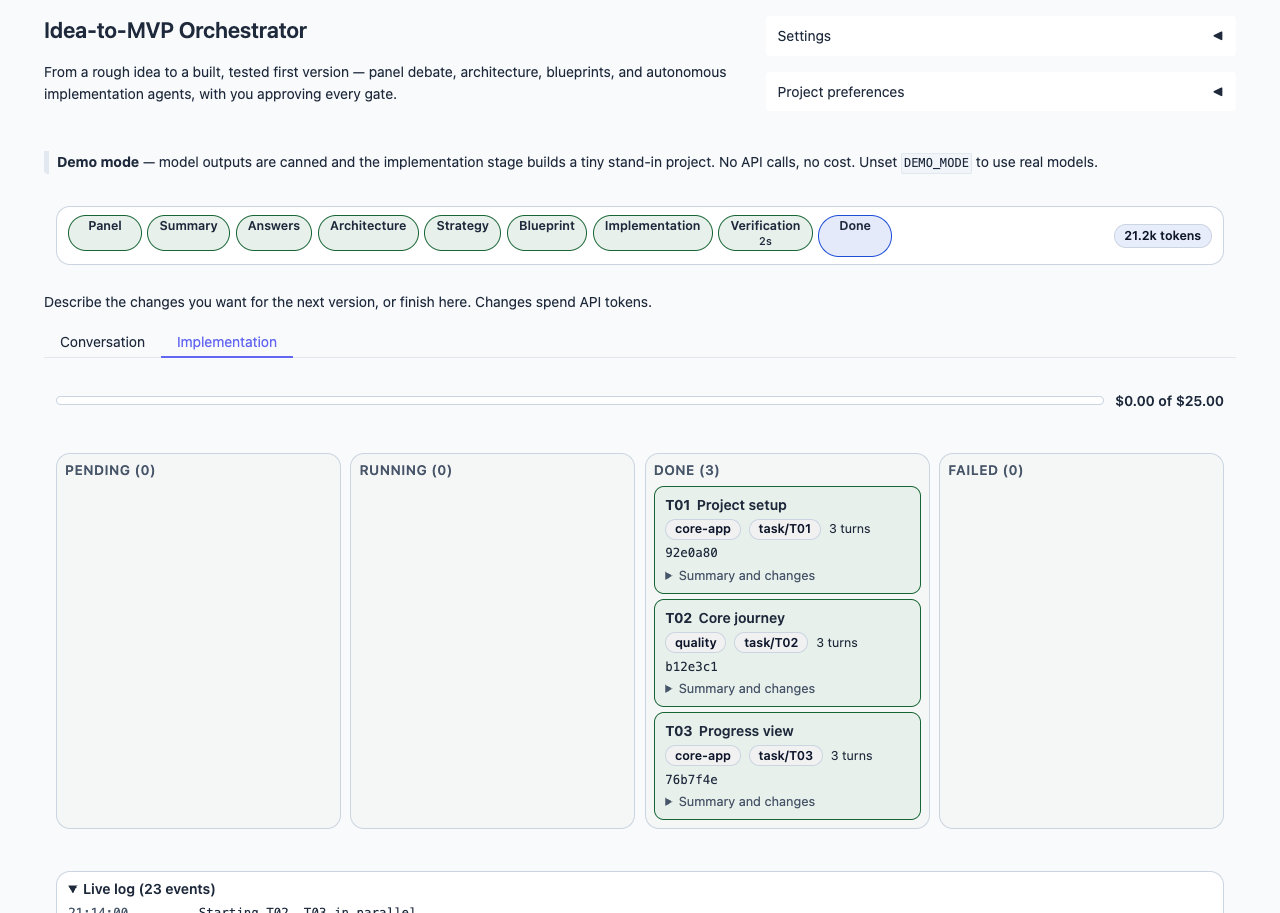
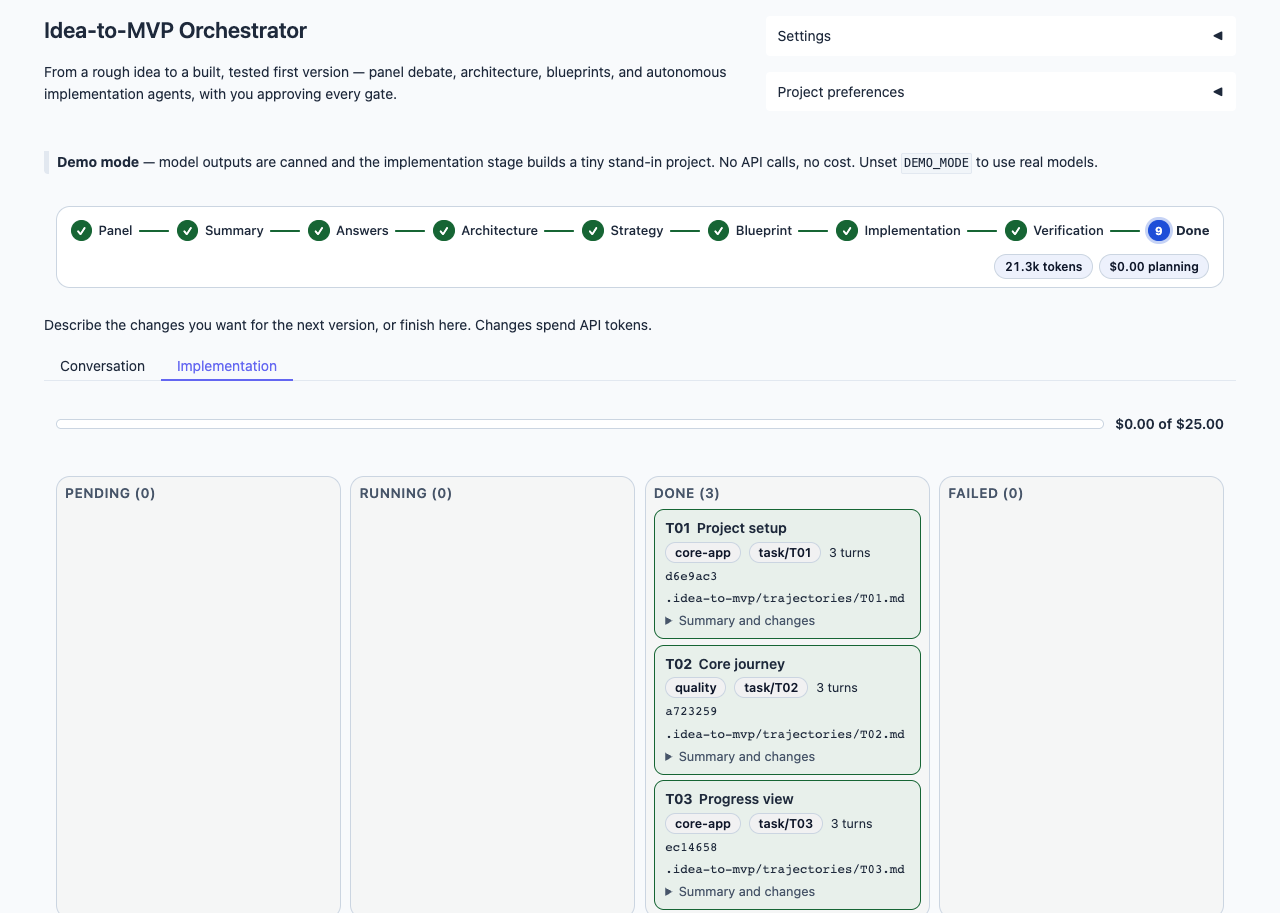
feat: release version 0.4.0 with enhanced orchestrator checks and UI improvements
- Released version 0.4.0, introducing a self-checking orchestrator that validates test reports and integrates an experience library for project learning.
- Updated `CHANGELOG.md` to reflect new features, including improved agent sessions, model pricing, and cost estimation adjustments.
- Enhanced UI components to restore styling for cards, forms, and dashboards, ensuring a consistent user experience.
- Revised `README.md` to highlight the new verdict system and its implications for agent sessions.
- Updated version in `pyproject.toml` and `uv.lock` to 0.4.0, ensuring consistency across project files.
- Added tests to verify the integrity of the new UI styles and versioning.

diff --git a/src/idea_to_mvp/ui/theme.py b/src/idea_to_mvp/ui/theme.py
@@ -108,6 +108,147 @@ CSS = """
   font-variant-numeric: tabular-nums; color: var(--text); border: 1px solid var(--card-border);
   background: color-mix(in srgb, var(--accent) 8%, var(--card-bg));
 }
+/* Chat cards. A speaker class sets the accent; the card border, tint and title follow it. */
+.speaker-card {
+  border: 1px solid var(--card-accent); border-radius: var(--radius); padding: 0.75rem 0.9rem; margin: 0.25rem 0;
+  background: color-mix(in srgb, var(--card-accent) 10%, var(--card-bg)); color: var(--text);
+}
+.speaker-card summary { cursor: pointer; }
+.speaker-card.thinking { border-style: dashed; }
+.speaker-card.summary { --card-accent: var(--accent-summary); }
+.speaker-card.speaker-pm { --card-accent: var(--accent-pm); }
+.speaker-card.speaker-tech-lead { --card-accent: var(--accent-tech); }
+.speaker-card.speaker-skeptic { --card-accent: var(--accent-skeptic); }
+.speaker-card.speaker-summary { --card-accent: var(--accent-summary); }
+.speaker-card.speaker-questions { --card-accent: var(--accent-questions); }
+.speaker-card.speaker-architect { --card-accent: var(--accent-architect); }
+.speaker-card.speaker-planner { --card-accent: var(--accent-planner); }
+.speaker-card.speaker-research { --card-accent: var(--accent-planner); }
+.speaker-card.warning-card { --card-accent: var(--danger); }
+.speaker-card.live-turn { border-style: dashed; }
+.speaker-card.live-turn .speaker-body::after { content: "▍"; color: var(--card-accent); animation: blink 1s steps(2) infinite; }
+@keyframes blink { 50% { opacity: 0; } }
+.opening-row { display: grid; grid-template-columns: repeat(3, minmax(0, 1fr)); gap: 0.5rem; }
+.opening-row .speaker-card { margin: 0; }
+.moderator-banner {
+  border-left: 4px solid var(--accent); border-radius: 8px; padding: 0.35rem 0.75rem; margin: 0.25rem 0;
+  background: color-mix(in srgb, var(--accent) 8%, var(--card-bg)); color: var(--text-muted); font-size: 0.9rem;
+}
+.speaker-head { color: var(--card-accent); font-weight: 700; margin-bottom: 0.45rem; }
+.speaker-body { color: var(--text); line-height: 1.35; white-space: normal; }
+.speaker-body p { margin: 0.1rem 0 0.3rem 0; }
+.speaker-body p:last-child { margin-bottom: 0; }
+.speaker-body ul, .speaker-body ol { margin: 0.2rem 0 0.3rem 1.2rem; padding-left: 0.2rem; }
+.speaker-body li { margin: 0.04rem 0; }
+.speaker-body h1, .speaker-body h2, .speaker-body h3, .speaker-body h4 { margin: 0.15rem 0 0.25rem 0; line-height: 1.25; }
+.speaker-body code { background: color-mix(in srgb, var(--text) 10%, transparent); padding: 0.08rem 0.3rem; border-radius: 5px; }
+
+/* Gate forms: the architecture comparison, the implement summary, banners. */
+.gate-form { gap: 0.6rem; }
+.arch-grid { display: grid; grid-template-columns: repeat(auto-fit, minmax(260px, 1fr)); gap: 0.75rem; }
+.arch-card {
+  --card-accent: var(--accent-architect);
+  border: 1px solid var(--card-accent); border-radius: var(--radius); padding: 0.75rem 0.9rem; color: var(--text);
+  background: color-mix(in srgb, var(--card-accent) 8%, var(--card-bg));
+}
+.arch-card.recommended { --card-accent: var(--ok); border-width: 2px; }
+.arch-card h4 { margin: 0 0 0.3rem 0; color: var(--card-accent); }
+.arch-card ul { margin: 0.1rem 0 0.4rem 1.1rem; padding: 0; }
+.arch-card p { margin: 0.2rem 0; }
+.arch-style { color: var(--text-muted); }
+.arch-why { margin: 0.4rem 0 0 0; color: var(--text); }
+.chips { display: flex; flex-wrap: wrap; gap: 0.3rem; margin: 0.3rem 0; }
+.chip {
+  padding: 0.05rem 0.55rem; border-radius: 999px; font-size: 0.78rem; font-weight: 600; color: var(--text);
+  border: 1px solid var(--card-border); background: color-mix(in srgb, var(--text) 6%, var(--card-bg));
+}
+.badge-recommended {
+  margin-left: 0.4rem; padding: 0.05rem 0.5rem; border-radius: 999px; font-size: 0.72rem; font-weight: 700;
+  color: var(--ok); border: 1px solid var(--ok); background: color-mix(in srgb, var(--ok) 12%, var(--card-bg));
+}
+.gate-table { width: 100%; border-collapse: collapse; color: var(--text); }
+.gate-table th, .gate-table td { padding: 0.3rem 0.6rem; text-align: left; border-bottom: 1px solid var(--card-border); }
+.gate-table th { width: 11rem; color: var(--text-muted); font-weight: 600; }
+.gate-banner {
+  padding: 0.6rem 0.8rem; border-radius: var(--radius); color: var(--text);
+  border: 1px solid var(--danger); background: color-mix(in srgb, var(--danger) 10%, var(--card-bg));
+}
+.gate-banner.warn { border-color: var(--warn); background: color-mix(in srgb, var(--warn) 10%, var(--card-bg)); }
+.gate-banner ul { margin: 0.2rem 0 0 1.1rem; padding: 0; }
+
+/* Implementation view: cost meter, task board, live console. */
+.cost-meter { display: flex; align-items: center; gap: 0.7rem; margin: 0.2rem 0 0.6rem 0; color: var(--text); }
+.cost-bar { flex: 1; height: 0.6rem; border-radius: 999px; overflow: hidden; border: 1px solid var(--card-border); background: var(--card-bg); }
+.cost-fill { height: 100%; background: var(--ok); }
+.cost-meter.warn .cost-fill { background: var(--warn); }
+.cost-meter.over .cost-fill { background: var(--danger); }
+.cost-meter.over .cost-text { color: var(--danger); font-weight: 700; }
+.cost-text { font-weight: 600; white-space: nowrap; }
+.task-board { display: grid; grid-template-columns: repeat(auto-fit, minmax(220px, 1fr)); gap: 0.6rem; margin: 0.4rem 0; }
+.board-col {
+  padding: 0.5rem; border-radius: var(--radius); border: 1px solid var(--card-border);
+  background: color-mix(in srgb, var(--text) 4%, var(--card-bg)); color: var(--text);
+}
+.board-col h4 { margin: 0 0 0.4rem 0; color: var(--text-muted); font-size: 0.85rem; text-transform: uppercase; letter-spacing: 0.04em; }
+.task-card {
+  --card-accent: var(--card-border);
+  margin: 0.35rem 0; padding: 0.5rem 0.65rem; border-radius: 10px; border: 1px solid var(--card-accent); color: var(--text);
+  background: color-mix(in srgb, var(--card-accent) 10%, var(--card-bg));
+}
+.task-card.running { --card-accent: var(--accent); }
+.task-card.done { --card-accent: var(--ok); }
+.task-card.failed { --card-accent: var(--danger); }
+.task-card header { display: flex; gap: 0.4rem; align-items: baseline; flex-wrap: wrap; }
+.task-title { font-weight: 600; }
+.task-meta { display: flex; flex-wrap: wrap; gap: 0.3rem 0.5rem; align-items: center; margin-top: 0.25rem; font-size: 0.78rem; color: var(--text-muted); }
+.task-card details { margin-top: 0.3rem; }
+.task-card summary { cursor: pointer; color: var(--text-muted); font-size: 0.8rem; }
+.task-summary { margin: 0.3rem 0; font-size: 0.85rem; }
+.diffstat, .run-block {
+  margin: 0.3rem 0; padding: 0.4rem 0.5rem; overflow-x: auto; font-size: 0.78rem; border-radius: 8px;
+  color: var(--text); background: color-mix(in srgb, var(--text) 8%, var(--card-bg));
+}
+.badge {
+  padding: 0.05rem 0.5rem; border-radius: 999px; font-size: 0.72rem; font-weight: 700; border: 1px solid var(--text-muted); color: var(--text-muted);
+}
+.badge.passed { color: var(--ok); border-color: var(--ok); background: color-mix(in srgb, var(--ok) 12%, var(--card-bg)); }
+.badge.failed { color: var(--danger); border-color: var(--danger); background: color-mix(in srgb, var(--danger) 12%, var(--card-bg)); }
+.board-empty, .dashboard-note { color: var(--text-muted); }
+.console { margin: 0.4rem 0; border: 1px solid var(--card-border); border-radius: var(--radius); background: var(--card-bg); color: var(--text); }
+.console summary { cursor: pointer; padding: 0.4rem 0.7rem; font-weight: 600; }
+/* column-reverse anchors the scroll position to the bottom: the newest line stays in view as lines arrive. */
+.console-scroll { display: flex; flex-direction: column-reverse; max-height: 18rem; overflow-y: auto; padding: 0 0.7rem 0.5rem 0.7rem; }
+.console-line { display: flex; gap: 0.6rem; font-family: ui-monospace, SFMono-Regular, Menlo, monospace; font-size: 0.78rem; line-height: 1.5; }
+.console-line .ts { color: var(--text-muted); }
+.console-line .who { min-width: 3.2rem; font-weight: 700; color: var(--accent); }
+.console-line .label { font-weight: 700; }
+.console-line.task_end .what { font-weight: 700; }
+.console-line.cost .what { color: var(--text-muted); }
+
+/* Delivery dashboard. */
+.dashboard { color: var(--text); }
+.dashboard-head { display: flex; flex-wrap: wrap; align-items: baseline; gap: 0.4rem 1rem; padding-right: 5rem; }  /* clear of the chat bubble's icons */
+.dashboard-head h3 { margin: 0; }
+.dashboard-verdict { padding: 0.15rem 0.7rem; border-radius: 999px; font-weight: 700; border: 1px solid var(--text-muted); }
+.dashboard-verdict.passed { color: var(--ok); border-color: var(--ok); background: color-mix(in srgb, var(--ok) 12%, var(--card-bg)); }
+.dashboard-verdict.failed { color: var(--danger); border-color: var(--danger); background: color-mix(in srgb, var(--danger) 12%, var(--card-bg)); }
+.lane-grid { display: grid; grid-template-columns: repeat(auto-fit, minmax(230px, 1fr)); gap: 0.6rem; margin: 0.6rem 0; }
+.lane-card {
+  --card-accent: var(--ok);
+  padding: 0.6rem 0.8rem; border-radius: var(--radius); border: 1px solid var(--card-accent);
+  background: color-mix(in srgb, var(--card-accent) 8%, var(--card-bg));
+}
+.lane-card.failed { --card-accent: var(--danger); }
+.lane-card header { display: flex; justify-content: space-between; align-items: center; gap: 0.4rem; }
+.lane-card p { margin: 0.3rem 0; }
+.lane-label { color: var(--text-muted); font-size: 0.78rem; font-weight: 700; text-transform: uppercase; }
+.lane-card ul, .lane-card ol { margin: 0.1rem 0 0.3rem 1.1rem; padding: 0; font-size: 0.85rem; }
+.lane-card ol li { margin-bottom: 0.4rem; }
+.lane-card code { overflow-wrap: anywhere; }  /* long paths (the acceptance suite's folder) wrap inside the card */
+.req-table { width: 100%; border-collapse: collapse; margin: 0.3rem 0 0.6rem 0; color: var(--text); }
+.req-table th, .req-table td { padding: 0.25rem 0.5rem; text-align: left; border-bottom: 1px solid var(--card-border); }
+.req-row.delivered td.req-status { color: var(--ok); font-weight: 600; }
+.req-row.uncovered td.req-status, .req-row.untested td.req-status, .req-row.incomplete td.req-status { color: var(--danger); font-weight: 600; }
 .req-row td.req-acceptance.passed { color: var(--ok); font-weight: 600; }
 .req-row td.req-acceptance.failed { color: var(--danger); font-weight: 600; }
 .req-row td.req-acceptance.skipped, .req-row td.req-acceptance.no-test { color: var(--text-muted); font-weight: 400; }

diff --git a/tests/test_ui_render.py b/tests/test_ui_render.py
@@ -278,3 +278,17 @@ def test_the_stepper_is_sticky_and_the_chat_gets_no_fixed_pixel_height() -> None
 
 def test_dark_mode_is_keyed_on_gradios_dark_class() -> None:
     assert any(".dark" in selector for selector, _ in rules(CSS))
+
+
+# The classes whose rules a cleanup of the stylesheet once dropped (cards, gate forms, task board, console,
+# dashboard): without them those parts render as unstyled text.
+_STRUCTURAL_CLASSES = (
+    "speaker-card", "speaker-head", "speaker-body", "opening-row", "arch-card", "arch-grid", "gate-table",
+    "gate-banner", "cost-meter", "task-board", "board-col", "task-card", "badge", "console", "console-line",
+    "dashboard", "dashboard-head", "dashboard-verdict", "lane-grid", "lane-card", "req-table", "diffstat",
+)  # fmt: skip
+
+
+@pytest.mark.parametrize("name", _STRUCTURAL_CLASSES)
+def test_the_stylesheet_styles_the_structural_classes_of_the_html_renderers(name: str) -> None:
+    assert re.search(rf"\.{re.escape(name)}\b[^{{]*{{", CSS), name

diff --git a/tests/test_docs_sync.py b/tests/test_docs_sync.py
@@ -174,7 +174,7 @@ def test_the_version_is_released_and_matches_the_changelog() -> None:
     version = tomllib.loads((ROOT / "pyproject.toml").read_text(encoding="utf-8"))["project"][
         "version"
     ]
-    assert version == "0.3.0"
+    assert version == "0.4.0"
     headings = re.findall(
         r"^## \[([^\]]+)\]", (ROOT / "CHANGELOG.md").read_text(encoding="utf-8"), re.MULTILINE
     )

diff --git a/CHANGELOG.md b/CHANGELOG.md
@@ -2,9 +2,23 @@
 
 All notable changes to this project will be documented in this file.
 
-## Unreleased
+## [0.4.0] - 2026-10-21
+
+The verdict is now evidence the orchestrator checks itself (parsed test reports, a test-integrity guard, held-out acceptance tests, a fix loop that reads its own earlier attempts), the pipeline learns (an agent harness in every pack, optional tuning on a pilot task, an experience library per stack), and it runs without the UI (`run`, `resume`, `sessions`, `publish`, `bench`, `mcp`). Models are priced from a catalog, and every kind of agent session has its own model. The first live benchmark is under `docs/benchmarks/2026-10-21-22ccfe6/`.
+
+### Upgrade notes
+
+- **New defaults that change a run.** `TEST_INTEGRITY=block`: weakening a test (deleting it, adding `skip` / `xfail` / `.only`, removing assertions) fails the verdict until the fix session restores it or justifies it in `quality/TEST_CHANGES.md`; `warn` reports only, `off` disables it. `ACCEPTANCE_TESTS=on` outside demo mode: one extra planning call per version (the acceptance author, on the architect's model) and a fourth verification lane; the suites are kept in `OUTPUT_DIR/acceptance/`, outside the project. The tests lane now trusts the test report, not the agent's claim, so a plan without `commands.test_report` is marked "agent-reported". `EXPERIENCE_LIBRARY` is on outside demo mode (a few cents per delivery for the reflection); `HARNESS_TUNING` stays `off`.
+- **Agent sessions load the project's harness.** Task, fix, and merge-resolver sessions read the generated `CLAUDE.md` and `.claude/skills/` (Claude Code's *project* setting source), where 0.3 loaded nothing from the workspace. The orchestrator restores a fixed `.claude/settings.json` before each session and the guard refuses writes to `.claude/settings*.json` and `.mcp.json`. See `SECURITY.md`.
+- **Models.** `IMPLEMENTER_MODEL` now drives task sessions only; `VERIFIER_MODEL` and `ESCALATION_MODEL` are new. An `.env` copied from 0.3 that pins `IMPLEMENTER_MODEL`, `PM_MODEL`, `MODERATOR_MODEL`, `ARCHITECT_MODEL`, or any other `*_MODEL` / `*_PROVIDER` keeps the pinned model: remove those lines to get the new defaults. `idea-to-mvp doctor` warns about pinned models the catalog does not know.
+- **Cost.** `balanced` plans on Opus 5.5, and planning documents are no longer cut short, so planning is most of a run's cost: the measured benchmark run cost $8.06 against the catalog's $3.43 estimate (`fast`: $0.25). Set `IMPLEMENTER_MAX_TOTAL_USD` before a real run; it caps agent sessions, not planning.
+- **Agent sessions start only on an explicit yes**: `--implement` on the command line, `confirm_spend: true` over MCP, the implement gate in the UI.
+- **Optional extra.** `idea-to-mvp mcp` needs `pip install idea-to-mvp[mcp]`.
+- **Files in a project.** Agent trajectories and the run ledger are written to `.idea-to-mvp/` in the project and stay out of the delivery zip. A fix attempt leaves `.idea-to-mvp/fix/attempt-<n>/`.
+- The tree is formatted with `ruff format` (line length 100) in a commit of its own; `git blame` can skip it with `--ignore-rev`.
 
 ### UI
+- **Fixed: the cards, forms, board, and dashboard rendered unstyled.** The stepper change of this release dropped the stylesheet rules of the chat cards, gate forms, task board, console, and delivery dashboard; they are restored, and a test names the structural classes that must keep a rule.
 - **A cleaner stage stepper.** The steps above the chat now have one height and one style: each is numbered, a finished step shows a check mark, a failed one a cross, and the current one a filled, ringed marker with its name in bold; connector lines join the steps and fill the row. Before, Gradio's list styles gave every step but the last a bottom margin (so "Done" was taller), and a step with a time grew a second line. The running or failed step shows its time inline, a finished one in its tooltip. The token and cost badges stay beside the steps when there is room and move to a row of their own otherwise; on a phone the steps are one row you swipe sideways and the badges wrap.
 
 ### Models

diff --git a/docs/plans/2026-10-19-v0.4.0-plan.md b/docs/plans/2026-10-19-v0.4.0-plan.md
@@ -6,7 +6,7 @@ Theme of the release: v0.3 made the pipeline durable, parallel, and sandboxed. v
 
 ## Status
 
-Done: **21 / 22**. Update this table (and only this table) when a task is finished.
+Done: **22 / 22**. Update this table (and only this table) when a task is finished.
 
 *Model* is the recommended model for the session that implements the task (pick it in the app's model picker before typing "implement task N"): Opus 5.5 where the task needs design judgment, security reasoning, or graph-level changes; Sonnet 5.5 where the design is already settled and the work is careful execution. If a Sonnet session fails twice on the same problem or starts redesigning the task, stop and rerun the task on Opus. After tasks 9, 10, 12, and 18 (they change what agents may do), run `/code-review`.
 
@@ -33,7 +33,7 @@ Done: **21 / 22**. Update this table (and only this table) when a task is finish
 | 19 | MCP server | 6 | Sonnet 5.5 | done (2026-10-21) |
 | 20 | Packaging and release engineering | 1 | Sonnet 5.5 | done (2026-10-21) |
 | 21 | Showcase: examples, recording, comparison (**starts with the live bench run: ask the user for their provider balances**) | 17, 20 | Sonnet 5.5 | done (2026-10-21) |
-| 22 | Release 0.4.0 | all | Sonnet 5.5 | todo |
+| 22 | Release 0.4.0 | all | Sonnet 5.5 | done (2026-10-21) |
 
 ## How to implement a task
 

diff --git a/CLAUDE.md b/CLAUDE.md
@@ -28,10 +28,6 @@ uv run pytest --cov=idea_to_mvp                        # what CI runs: fails bel
 
 Gradio + LangGraph app: idea → panel discussion → summary → gates → architecture → strategy → blueprint pack → implementation (Claude Agent SDK) → verification. The pipeline, module map, state contract, and conventions live in [docs/architecture.md](docs/architecture.md) — read it before changing graph topology, state, or prompts, and update it (only it) when they change. Every setting is documented in `.env.example`.
 
-## Active plan
-
-`docs/plans/2026-10-19-v0.4.0-plan.md` is the v0.4.0 plan. "Implement task N" means its `#### Task N` section: follow the plan's *How to implement a task* and *Rules for every task*, update its status table, and keep every change local (no commit, push, tag, or PR) unless the user asks for one in that conversation.
-
 ## Conventions
 
 - Source is the `idea_to_mvp` package in `src/`; imports are absolute (no dual `try/except ImportError` imports).

diff --git a/README.md b/README.md
@@ -93,6 +93,8 @@ The implementation stage needs `ANTHROPIC_API_KEY` (it drives the Claude Agent S
 
 ![The delivery dashboard: verdict per lane, requirements table, cost and time](docs/assets/delivery-dashboard.png)
 
+**A verdict the agents cannot write themselves.** The orchestrator reads the test reports itself, flags a session that deleted or skipped a test, and fix attempts see what the earlier ones tried. Every blueprint pack carries an agent harness (a `CLAUDE.md`, one check script, project skills), which can optionally be tuned on a pilot task (`HARNESS_TUNING=pilot`), and each delivery adds a lesson to an experience library that the next project of the same stack reads.
+
 ## How it compares
 
 An approach comparison, not a quality ranking: what each project's own README says it does, read on 2026-10-21 (they change, so check them). The measured results for this project are in [Benchmark](#benchmark).
